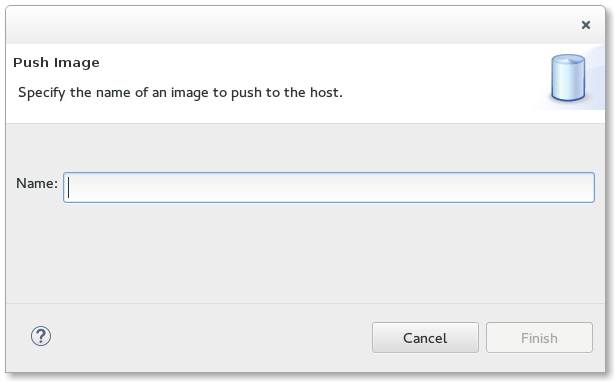
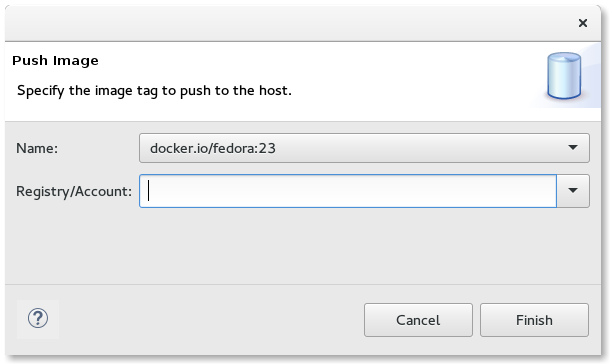
Update Docker docs for Neon release.
(cherry picked from commit 4d86c7a081b74595b925ffa64c9578e36b0f7374)

diff --git a/containers/org.eclipse.linuxtools.docker.docs/Linux_Tools_Project/Docker_Tooling/User_Guide/Docker-Tooling-Perspective.html b/containers/org.eclipse.linuxtools.docker.docs/Linux_Tools_Project/Docker_Tooling/User_Guide/Docker-Tooling-Perspective.html
@@ -28,7 +28,7 @@
 				<td style="width: 60%" align="center"></td>
 				<td style="width: 20%" align="right" valign="top">Updating This Document</td>
 			</tr>
-		</table><hr/>
+		</table><hr class="navigation-separator"/>
 		<h1 id="Docker_Tooling_Perspective">Docker Tooling Perspective</h1>
 		<p>A new perspective known as the Docker Tooling Perspective is added.</p>
 		<p>
@@ -37,13 +37,13 @@
 		<p>This perspective brings up three new views added:</p>
 		<ul>
 			<li>
-				<a href="Docker-Tooling-Perspective.html#Docker_Explorer_View">Docker Explorer View</a> - view for creating/managing connections to Docker daemons
+				<a href="#Docker_Explorer_View">Docker Explorer View</a> - view for creating/managing connections to Docker daemons
 			</li>
 			<li>
-				<a href="Docker-Tooling-Perspective.html#Docker_Images_View">Docker Images View</a> - view for managing Docker Images
+				<a href="#Docker_Images_View">Docker Images View</a> - view for managing Docker Images
 			</li>
 			<li>
-				<a href="Docker-Tooling-Perspective.html#Docker_Containers_View">Docker Containers View</a> - view for managing Docker Containers
+				<a href="#Docker_Containers_View">Docker Containers View</a> - view for managing Docker Containers
 			</li>
 		</ul>
 		<p>In addition, the Docker Tooling Perspective adds the Console View and the Properties View.</p>
@@ -65,6 +65,7 @@
 			<img border="0" src="images/LinuxToolsDockerExplorerViewInit.png"/>
 		</p>
 		<p>Clicking on the message will bring up the New Connection Wizard.</p>
+		<h3 id="New_Connection_Wizard">New Connection Wizard</h3>
 		<p>
 			<img border="0" src="images/LinuxToolsNewConnectionWizard.png"/>
 		</p>
@@ -85,7 +86,20 @@
 			has performed management outside of Eclipse using the docker command.
 		</p>
 		<p>The Explorer View shows a tree view with the main nodes being the connections.  Each connection opens up to reveal Images and
-			Containers nodes which have children nodes for Images and Containers that the connection knows about.  Filtering is provided.
+			Containers nodes which have children nodes for Images and Containers that the connection knows about.  If a connection gets dropped
+			(e.g. the daemon is stopped), it will be marked in view using a gray disabled icon.  To enable the connection,
+			use the 
+			<img border="0" src="images/LinuxToolsDockerToolingEnableConnection.png"/> icon on the toolbar to re-enable the connection.  If the connection
+			can be enabled, it will change color to denote this. 
+		</p>
+		<h3 id="Edit_Connection_Wizard">Edit Connection Wizard</h3>
+		<p>A connection can also be edited after it is created.  Simply select the connection in the Docker Explorer View and right-click for
+			the context menu to select "Edit Connection...".  This will bring up the Edit Connection Wizard:</p>
+		<p>
+			<img border="0" src="images/LinuxToolsEditConnection.png"/>
+		</p>
+		<h3 id="Filtering">Filtering</h3>
+		<p>Filtering is provided for the Docker Explorer View.
 			Simply click on the generic Menu options (down arrow) and click on "Customize View...".  This will bring up the following dialog:</p>
 		<p>
 			<img border="0" src="images/LinuxToolsExplorerFilter.png"/>
@@ -110,12 +124,14 @@
 			<li>Unpause - continue a paused Container</li>
 			<li>Stop - stop running Containers</li>
 			<li>Kill - kill running Containers</li>
+			<li>Show in - show in Properties View</li>
+			<li>Execute Shell - run a shell in the Terminal View (running Container only)</li>
 			<li>Remove - delete stopped Containers</li>
 			<li>
-				<a href="Docker-Tooling-Perspective.html#Commit_Container">Commit</a> - commit the Container to an Image
+				<a href="#Commit_Container">Commit</a> - commit the Container to an Image
 			</li>
 			<li>
-				<a href="Docker-Tooling-Perspective.html#Display_Log">Display Log</a> - display the log for the Container
+				<a href="#Display_Log">Display Log</a> - display the log for the Container
 			</li>
 			<li>Remove Log - removes the log for the Container from Eclipse Console View</li>
 		</ul>
@@ -125,17 +141,18 @@
 		<p>For Images, one can:</p>
 		<ul>
 			<li>
-				<a href="Docker-Tooling-Perspective.html#Run_Image">Run</a> - build a Container and run it
+				<a href="#Run_Image">Run</a> - build a Container and run it
 			</li>
+			<li>Show in Properties View</li>
 			<li>Remove - delete selected Images</li>
 			<li>
-				<a href="Docker-Tooling-Perspective.html#Push_Image">Push</a> - push an Image to a registry
+				<a href="#Push_Image">Push</a> - push an Image to a registry
 			</li>
 			<li>
-				<a href="Docker-Tooling-Perspective.html#Add_Tag">Add Tag</a> - add a tag to an Image
+				<a href="#Add_Tag">Add Tag</a> - add a tag to an Image
 			</li>
 			<li>
-				<a href="Docker-Tooling-Perspective.html#Remove_Tag">Remove Tag</a> - remove a tag from an Image with multiple tags
+				<a href="#Remove_Tag">Remove Tag</a> - remove a tag from an Image with multiple tags
 			</li>
 		</ul>
 		<h2 id="Docker_Images_View">Docker Images View</h2>
@@ -152,23 +169,23 @@
 		<ul>
 			<li>
 				<img border="0" src="images/LinuxToolsDockerImageViewPull.png"/> - 
-				<a href="Docker-Tooling-Perspective.html#Pull_Image">pull an Image from the Repository</a>
+				<a href="#Pull_Image">pull an Image from the Repository</a>
 			</li>
 			<li>
 				<img border="0" src="images/LinuxToolsDockerImageViewPush.png"/> - 
-				<a href="Docker-Tooling-Perspective.html#Push_Image">push an Image to the Repository</a>
+				<a href="#Push_Image">push an Image to the Repository</a>
 			</li>
 			<li>
 				<img border="0" src="images/LinuxToolsDockerContainerCreate.png"/> - 
-				<a href="Docker-Tooling-Perspective.html#Run_Image">create a Container from an Image</a>
+				<a href="#Run_Image">create a Container from an Image</a>
 			</li>
 			<li>
 				<img border="0" src="images/LinuxToolsDockerImageBuild.png"/> - 
-				<a href="Docker-Tooling-Perspective.html#Build_Image">build an Image from a Dockerfile</a>
+				<a href="#Build_Image">build an Image from a Dockerfile</a>
 			</li>
 			<li>
 				<img border="0" src="images/LinuxToolsDockerTagImage.png"/> - 
-				<a href="Docker-Tooling-Perspective.html#Add_Tag">tag an Image</a>
+				<a href="#Add_Tag">tag an Image</a>
 			</li>
 			<li>
 				<img border="0" src="images/LinuxToolsDockerDeleteImage.png"/> - delete one or more Images (requires confirmation)
@@ -180,22 +197,29 @@
 		<p>There are also context menu actions supported:</p>
 		<ul>
 			<li>
-				<a href="Docker-Tooling-Perspective.html#Add_Tag">Add Tag</a> - same as the toolbar tag image action
+				<img border="0" src="images/LinuxToolsDockerContainerCreate.png"/> - 
+				<a href="#Run_Image">Run an Image and create a Container</a>
 			</li>
 			<li>
-				<a href="Docker-Tooling-Perspective.html#Remove_Tag">Remove Tag</a> - remove a tag from an Image with multiple repo tags
+				<a href="#Add_Tag">Add Tag</a> - same as the toolbar tag image action
+			</li>
+			<li>
+				<a href="#Remove_Tag">Remove Tag</a> - remove a tag from an Image with multiple repo tags
 			</li>
 		</ul>
 		<p>The text entry below the Connection name is used to search/filter the contents of the list.
 			Anything typed in the filter text widget is used to match items in the list (any column) and
 			any row without a match is excluded.</p>
 		<h3 id="Pull_Image">Pull Image</h3>
-		<p>Pulling a Docker Image consists of requesting a repo tag or repository specification.
-			Specifying a repository but no tag will pull all Images from that repo (for example: fedora).</p>
-		<p>The pull Wizard is used to specify the repository or repo:tag specification.</p>
+		<p>Pulling a Docker Image consists of requesting a repo tag or repository specification from
+			a registry.  Specifying a repository with no tag will pull all Images from that repo (for example: fedora).</p>
+		<p>The pull Wizard is used to specify the repository or repo:tag specification and the registry to use.</p>
 		<p>
 			<img border="0" src="images/LinuxToolsDockerPullWizard.png"/>
 		</p>
+		<p>By default, the Docker Hub registry will be used, however, a user may
+			specify an additional private registry if desired.  Additional registries are added using
+			Windows -&gt; Preferences -&gt; Docker -&gt; Registry Accounts.</p>
 		<p>The user can either fill in the complete name of the image to download or a search can be performed
 			using the Search button.  This brings up the Search Image Wizard.</p>
 		<p>
@@ -221,7 +245,10 @@
 			repo:tag, it will be pushed to the specified registry.  To specify an external or local registry,
 			use the Tag Image function to add a new tag to an existing Image which has the registry specifier and
 			then push that tag.</p>
-		<p>The push Wizard is used to specify the tag to push.</p>
+		<p>The latest version of the Push Image Wizard allows one to specify a registry/account that has been added
+			via Window -&gt; Preferences -&gt; Docker -&gt; Registry Accounts.  This is needed when authorization is required
+			by the registry for the specified repo.  Using the aforementioned tag method assumes no authorization
+			required.</p>
 		<p>
 			<img border="0" src="images/LinuxToolsDockerPushWizard.png"/>
 		</p>
@@ -256,6 +283,7 @@
 			<li>Keep Stdin Open - used to allow input from the Console</li>
 			<li>Allocate pseudo-tty - used to allocate a TTY for the Container (needed if running a shell)</li>
 			<li>Automatically remove the Container on exit - this is used to remove the Container when finished</li>
+			<li>Give extended privileges to this container - this is used to give the container additional privileges</li>
 		</ul>
 		<p>The second page of the Wizard also has a number of needed settings:</p>
 		<p>
@@ -305,7 +333,7 @@
 		<p>The directory can be specified using the "Browse" button.  Once a valid existing directory
 			is specified, the "Edit" button will be enabled, allowing creation and modification of the
 			Dockerfile using a 
-			<a href="Docker-Tooling-Perspective.html#Dockerfile_Editor">basic editor dialog</a>.
+			<a href="#Dockerfile_Editor">basic editor dialog</a>.
 		</p>
 		<p>When the Dockerfile is considered complete, hitting the "Finish" button will start the
 			Image build action.  When the build is complete, the Docker Images View will be refreshed
@@ -314,8 +342,13 @@
 		<p>
 			<img border="0" src="images/LinuxToolsDockerfileEditor.png"/>
 		</p>
-		<p>The Dockerfile editor is a rudimentary text editor with clipboard support (copy, cut, and paste).
-			The Dockerfile is used to specify how to build the new Docker Image.  The file contains
+		<p>The Dockerfile editor is a specialized text editor for Dockerfiles that was added to the
+			Neon release.  The editor supports
+			completion and offers help on the basic Dockerfile constructs.  Completion occurs using the
+			CTRL + space sequence as in any other text editor.  Reverting fixes and saving are also supported plus
+			full colorization.  The editor can be brought up from the Build Image Wizard or by double-clicking on
+			a Dockerfile file in an Eclipse View such as the Project Explorer.</p>
+		<p>A Dockerfile is used to specify how to build the new Docker Image.  The file contains
 			a set of commands used to build the Image:</p>
 		<ul>
 			<li>FROM xxxxxx - this must be the first line and specifies the Image xxxxxx to base off of (e.g. FROM fedora:20)
@@ -390,6 +423,23 @@
 		<p>For more details, see 
 			<a href="http://docs.docker.com/reference/builder">the official Dockerfile reference</a>
 		</p>
+		<h4 id="Build_Image_Run_Configuration">Build Image Run Configuration</h4>
+		<p>A Dockerfile can also be run by right-clicking on it in an Eclipse project and choosing
+			Run as -&gt; Docker Image Build.  For the first time the file is built, you will get the following
+			dialog:</p>
+		<p>
+			<img border="0" src="images/LinuxToolsDockerBuildImageFirstDialog.png"/>
+		</p>
+		<p>Here, the connection and the repository name for the new image can be supplied.  An image created
+			without a name will default to be: dockerfile:xxxxxxxxxxxx where xxxxxxxxxxx is a unique hex value.  </p>
+		<p>After building, a Run configuration will be created that can be inspected, modified, or run using
+			the Run-&gt;Run Configurations... menu option.</p>
+		<p>
+			<img border="0" src="images/LinuxToolsDockerBuildImageConfiguration2.png"/>
+		</p>
+		<p>Note there are additional options in the configuration that can be specified for the image build that
+			are not available by right-clicking on the Dockerfile.  A new Run configuration can be created from the
+			Run Configurations dialog by double-clicking on the Build Docker Image category.</p>
 		<h3 id="Add_Tag">Add Tag</h3>
 		<p>The Tag Image dialog can be brought up directly from the Docker Images View toolbar or using the
 			context menu by right-clicking on an Image.</p>
@@ -460,10 +510,10 @@
 		<p>The following context menu actions are supported:</p>
 		<ul>
 			<li>Commit Container - 
-				<a href="Docker-Tooling-Perspective.html#Commit_Container">commit all changes of a selected Container into a new Image</a>
+				<a href="#Commit_Container">commit all changes of a selected Container into a new Image</a>
 			</li>
 			<li>Display Log - 
-				<a href="Docker-Tooling-Perspective.html#Display_Log">display the stdout/stderr logs of a selected Container in the Console View</a>
+				<a href="#Display_Log">display the stdout/stderr logs of a selected Container in the Console View</a>
 			</li>
 			<li>Remove Log - remove the stdout/stderr logs of a selected Container from the Console View</li>
 		</ul>
@@ -511,9 +561,9 @@
 		</ul>
 		<h2 id="Properties_View">Properties View</h2>
 		<p>The Properties View will respond to selections in the three Docker Tooling Views: 
-			<a href="Docker-Tooling-Perspective.html#Docker_Explorer_View">Docker Explorer View</a>, 
-			<a href="Docker-Tooling-Perspective.html#Docker_Images_View">Docker Images View</a>, and the 
-			<a href="Docker-Tooling-Perspective.html#Docker_Containers_View">Docker Containers View</a>.  The data shown will depend on what is being selected:
+			<a href="#Docker_Explorer_View">Docker Explorer View</a>, 
+			<a href="#Docker_Images_View">Docker Images View</a>, and the 
+			<a href="#Docker_Containers_View">Docker Containers View</a>.  The data shown will depend on what is being selected:
 		</p>
 		<ul>
 			<li>Docker Connection</li>
@@ -530,7 +580,7 @@
 		</ul>
 		<p>
 			<img border="0" src="images/LinuxToolsDockerPropertiesView.png"/>
-		</p><hr/>
+		</p><hr class="navigation-separator"/>
 		<table class="navigation" style="width: 100%;" border="0" summary="navigation">
 			<tr>
 				<td style="width: 20%" align="left">

diff --git a/containers/org.eclipse.linuxtools.docker.docs/Linux_Tools_Project/Docker_Tooling/User_Guide/Updating-This-Document.html b/containers/org.eclipse.linuxtools.docker.docs/Linux_Tools_Project/Docker_Tooling/User_Guide/Updating-This-Document.html
@@ -24,11 +24,11 @@
 				<td style="width: 60%" align="center"></td>
 				<td style="width: 20%" align="right" valign="top"></td>
 			</tr>
-		</table><hr/>
+		</table><hr class="navigation-separator"/>
 		<h1 id="Updating_This_Document">Updating This Document</h1>
 		<pre>   This document is maintained in a collaborative wiki.  If you wish to update or modify this document please visit
-   http://wiki.eclipse.org/Linux_Tools_Project/Docker_Tooling/User_Guide .
-</pre><hr/>
+   <a href="http://wiki.eclipse.org/Linux_Tools_Project/Docker_Tooling/User_Guide">http://wiki.eclipse.org/Linux_Tools_Project/Docker_Tooling/User_Guide</a> .
+</pre><hr class="navigation-separator"/>
 		<table class="navigation" style="width: 100%;" border="0" summary="navigation">
 			<tr>
 				<td style="width: 20%" align="left">

diff --git a/containers/org.eclipse.linuxtools.docker.docs/Linux_Tools_Project/Docker_Tooling/User_Guide/User-Guide.html b/containers/org.eclipse.linuxtools.docker.docs/Linux_Tools_Project/Docker_Tooling/User_Guide/User-Guide.html
@@ -24,13 +24,13 @@
 				<td style="width: 60%" align="center"></td>
 				<td style="width: 20%" align="right" valign="top">Docker Tooling Perspective</td>
 			</tr>
-		</table><hr/>
+		</table><hr class="navigation-separator"/>
 		<h1 id="Introduction">Introduction</h1>
 		<p>The Linux Tools Docker Tooling plug-ins allow a user to manage Docker Images and Containers with similar functionality found in
 			the command-line docker command.</p>
 		<p>For details on Docker and the docker command, see the Docker web-site at 
 			<a href="http://www.docker.com">http://www.docker.com</a>
-		</p><hr/>
+		</p><hr class="navigation-separator"/>
 		<table class="navigation" style="width: 100%;" border="0" summary="navigation">
 			<tr>
 				<td style="width: 20%" align="left"></td>
